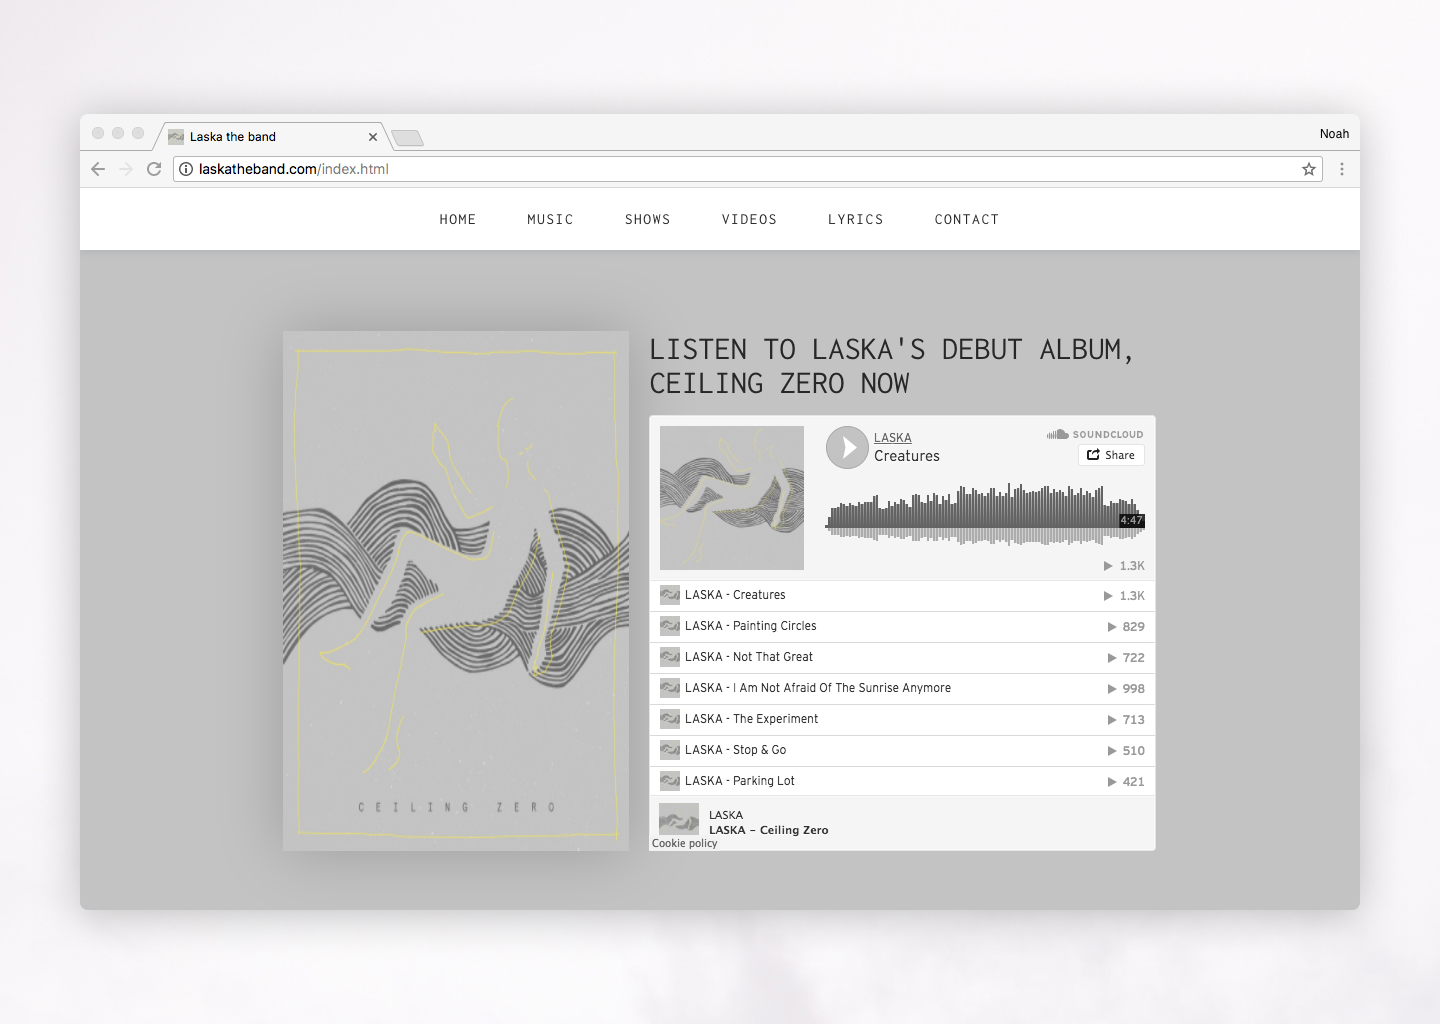
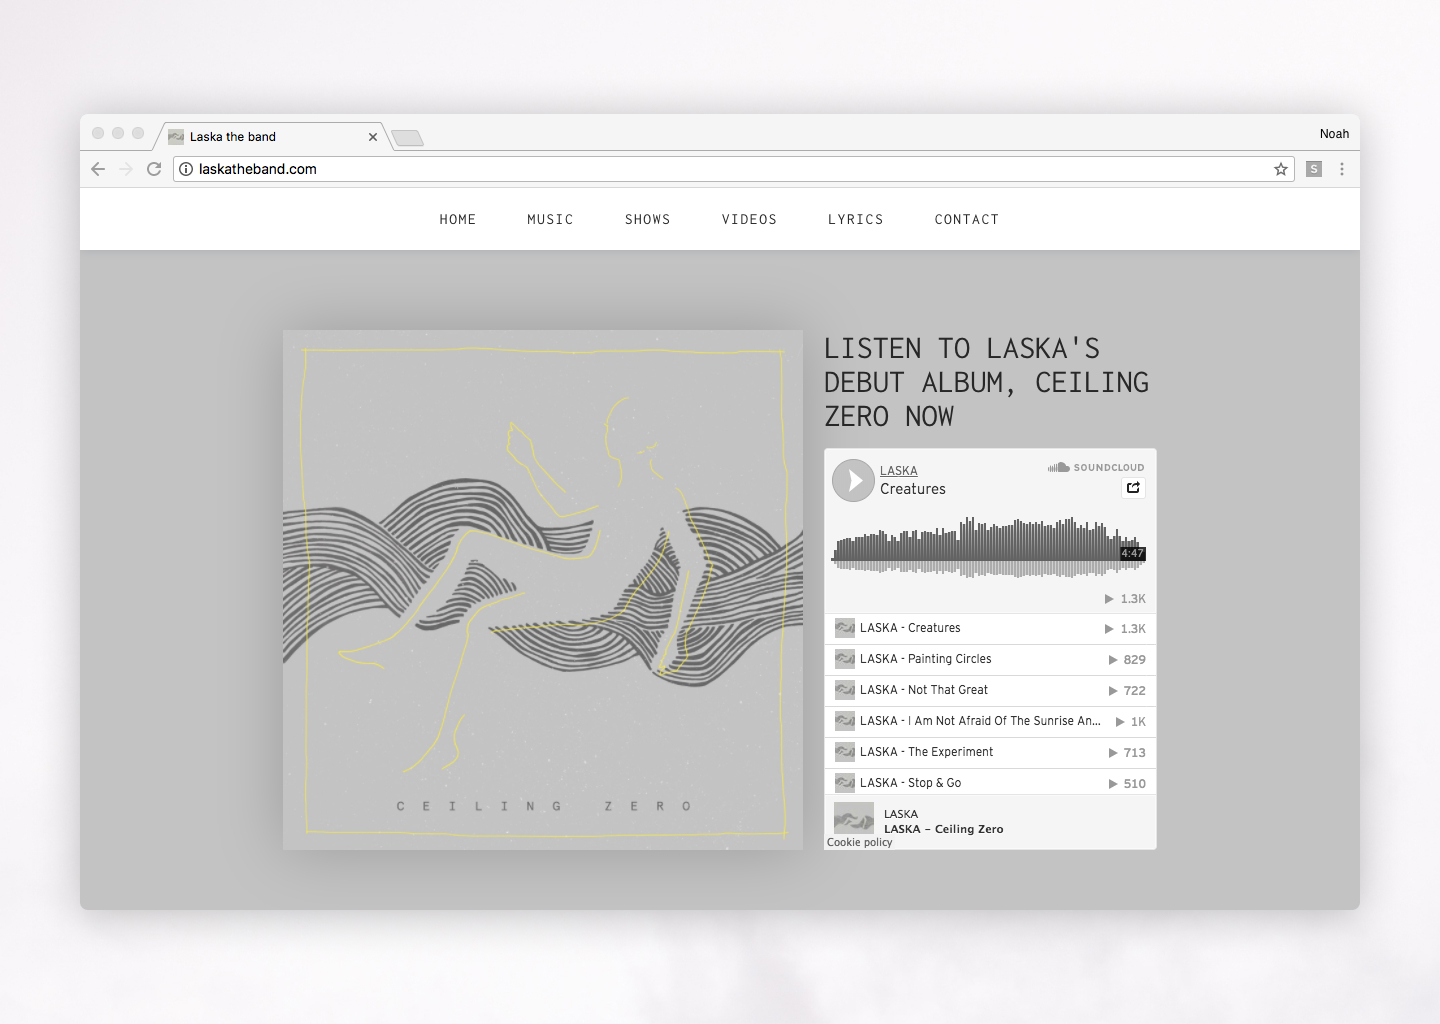
Next and previous cards clearly labeled

diff --git a/_layouts/project.html b/_layouts/project.html
@@ -18,7 +18,7 @@ layout: default
 
       {% if page.link %}
       <p>
-        <a class="cta cta--project" target="_blank" href="{{ page.link }}">Visit the Site ➝</a>
+        <a class="cta cta--project" target="_blank" href="{{ page.link }}">Visit the Site →</a>
       </p>
       {% endif %}
 
@@ -30,7 +30,7 @@ layout: default
 
   {% if page.link %}
   <p class="project__text">
-      <a class="cta cta--project" target="_blank" href="{{ page.link }}">Visit the Site ➝</a>
+      <a class="cta cta--project" target="_blank" href="{{ page.link }}">Visit the Site →</a>
   </p>
   {% endif %}
 
@@ -48,13 +48,15 @@ layout: default
     {% unless forloop.first %}
       {% assign prevurl = prev.url %}
       {% assign prevtitle = prev.title %}
-      {% assign prevprofile = prev.profile %} 
+      {% assign prevprofile = prev.profile %}
+      {% assign prevscope = prev.scope | array_to_sentence_string %}  
     {% endunless %}
     {% unless forloop.last %}
       {% assign next = document[forloop.index] %}
       {% assign nexturl = next.url %}
       {% assign nexttitle = next.title %}
       {% assign nextprofile = next.profile %} 
+      {% assign nextscope = next.scope | array_to_sentence_string %} 
     {% endunless %}
   {% endif %}
   {% assign prev = links %}
@@ -66,8 +68,8 @@ layout: default
     {% if prevurl %}
       <a href="{{ site.baseurl }}{{prevurl}}" class="project__card">
           <div class="project__card__info">
-              <h2>Previous Project</h2>
-              <p>{{ prevtitle }}</p>
+              <h2>{{ prevtitle }}</h2>
+              <p>{{ nextscope }}</p>
           </div>
           <img class="project__card__image" src="{{ site.baseurl }}/assets/images/{{ prevprofile }}" alt="">
       </a>
@@ -78,8 +80,8 @@ layout: default
     {% if nexturl %}
     <a href="{{ site.baseurl }}{{nexturl}}" class="project__card">
         <div class="project__card__info">
-            <h2>Next Project</h2>
-            <p>{{ nexttitle }}</p>
+            <h2>{{ nexttitle }}</h2>
+            <p>{{ nextscope }}</p>
         </div>
         <img class="project__card__image" src="{{ site.baseurl }}/assets/images/{{ nextprofile }}" alt="">
     </a>

diff --git a/_sass/_projects.scss b/_sass/_projects.scss
@@ -103,6 +103,10 @@
     }
 }
 
+.wrapper--next__previous {
+    margin-top: 100px;
+}
+
 .project__card--next,
 .project__card--previous {
     width: 100%;
@@ -120,15 +124,31 @@
 .project__card--next .project__card {
     position: relative;
     overflow: visible;
-    @include for-phone-only {
-        &::before {
-            content: 'Next Project';
-            display: block;
-            position: absolute;
-            top: -30px;
+    &::before {
+        content: 'Next Project →';
+        display: block;
+        position: absolute;
+        top: -50px;
+        right: 0;
+        // opacity: .5;
+        font-size: 24px;
+        @include for-phone-only {
             left: 0;
-            opacity: .5;
         }
+    }
+}
+
+.project__card--previous .project__card { 
+    position: relative;
+    overflow: visible;
+    &::before {
+        content: '← Previous Project';
+        display: block;
+        position: absolute;
+        top: -50px;
+        left: 0;
+        // opacity: .5;
+        font-size: 24px;
     }
 }
 

diff --git a/index.html b/index.html
@@ -1,8 +1,20 @@
 ---
-layout: nofooter
+layout: default
 ---
 
 <div class="wrapper wrapper--hero">
-    <h1 class="">{{ site.description }}</h1>
-    <a class="cta cta--hero" href="{{ "/projects" | relative_url }}">View Selected Projects ➝</a>
+    <h1 class="hero-header">{{ site.description }}</h1>
+    <div class="project__grid project__grid--hero fade--in">
+        {% for project in site.projects %}
+        <a href="{{ site.baseurl }}{{ project.permalink }}" class="project__card">
+            <div class="project__card__info">
+                <h2>{{ project.title }}</h2>
+                <p>
+                    {{ project.scope | array_to_sentence_string }}
+                </p>
+            </div>
+            <img class="project__card__image" src="{{ site.baseurl }}/assets/images/{{ project.profile }}" alt="">
+        </a>
+        {% endfor %} 
+    </div>
 </div>

diff --git a/_projects/3-mars-plant-tracker.html b/_projects/3-mars-plant-tracker.html
@@ -86,12 +86,12 @@ description: 'Future trips to Mars will require long term sustainable ways to cr
 
 <img class="responsive__img" src="{{ "/assets/images/mpt-style-guide.jpg" | relative_url }}" alt="Style guide">
 
-<p class="project__text">
-    Final layout &amp; design prototype and demo.
-</p>
-
 <div class="side-by-side__wrapper">
-    <div></div>
+    <div class="side-by-side-text">
+        <p class="project__text">
+            Final layout &amp; design prototype and demo.
+        </p>
+    </div>
     <div>
         <img class="responsive__img" src="{{ "/assets/images/mpt-demo.gif" | relative_url }}" alt="Persona Card">
     </div>

diff --git a/_sass/_base.scss b/_sass/_base.scss
@@ -32,15 +32,12 @@ body {
     }
     margin: 0 auto;
     &--hero {
-        //height: 100vh;
-        // position: absolute;
-        // top: 0;
-        // right: 10vh;
-        // bottom: 0;
-        // left: 10vh;
-        // background-color: indianred;
-        
-
+        .hero-header {
+            margin-bottom: 100px;
+            @include for-phone-only {
+                margin-bottom: 60px;
+            }
+        }
         margin-top: 60px;
         margin-bottom: 60px;
         @include for-big-desktop-up {

diff --git a/assets/js/functions.js b/assets/js/functions.js
@@ -22,4 +22,8 @@ $(function () {
 
     $('main').removeClass('fade--in');
 
+    setTimeout(function() {
+        $('.project__grid--hero').removeClass('fade--in');
+    }, 900);
+
 });

diff --git a/_sass/_animations.scss b/_sass/_animations.scss
@@ -13,7 +13,8 @@
 //     }
 // }
 
-main {
+main,
+.project__grid--hero {
     opacity: 1;
     transform: translateY(0);
     transition: 900ms ease;
